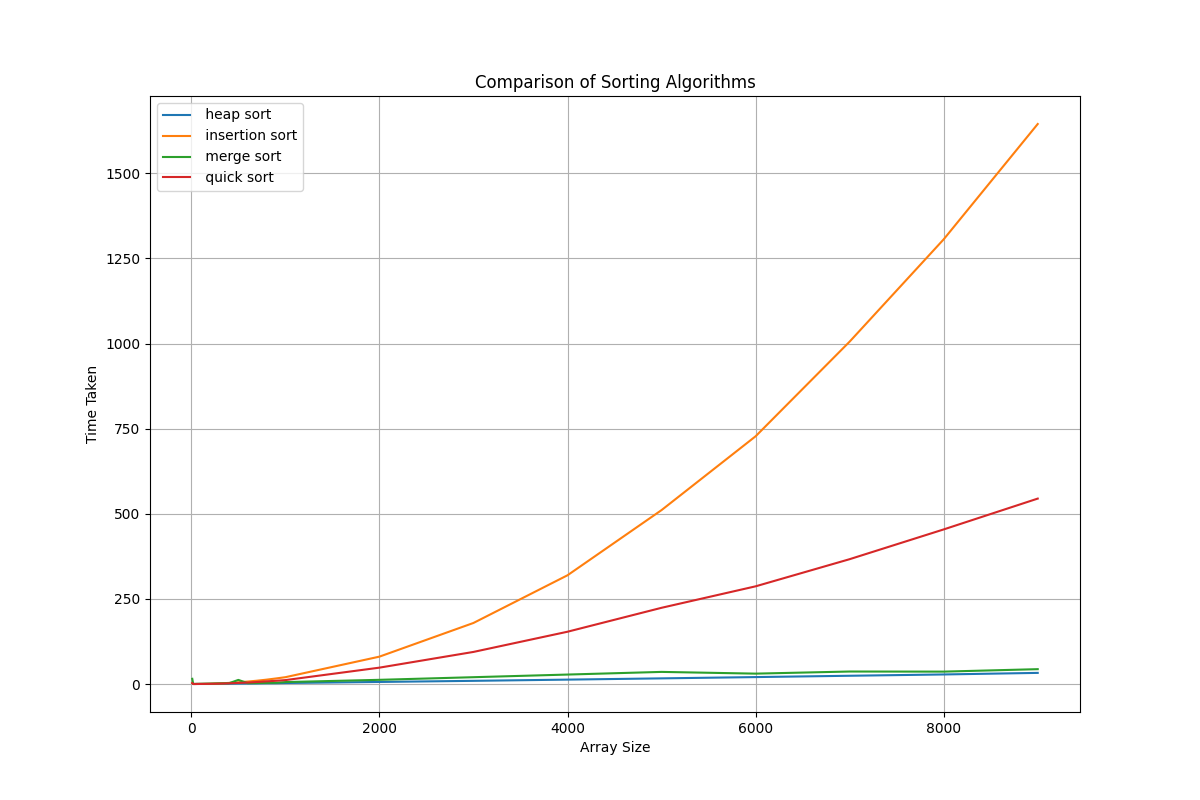
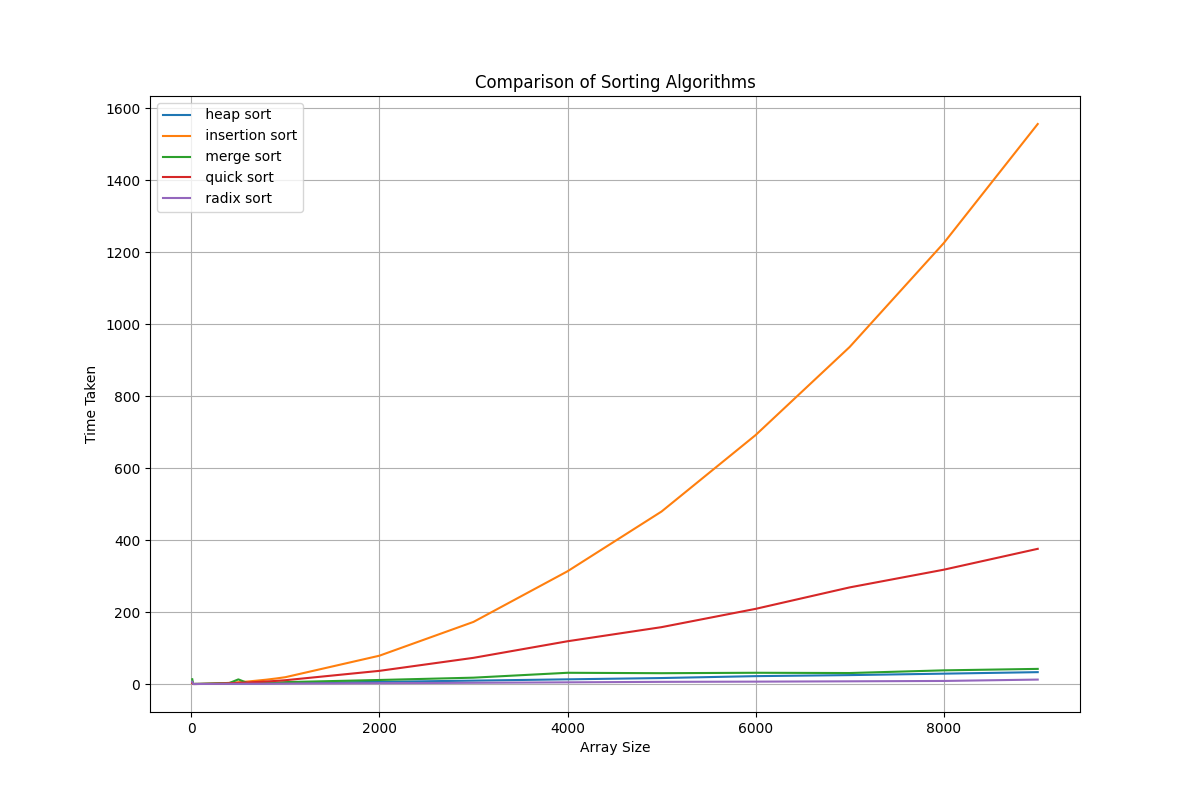
added radix sort and paper

diff --git a/SortingApp/Sorters/RadixSorter.cs b/SortingApp/Sorters/RadixSorter.cs
@@ -1,0 +1,71 @@
+namespace SortingApp.Sorters;
+
+public class RadixSorter : ISorter
+{
+    public List<int> Sort(List<int> list)
+    {
+        return RadixSort(list);
+    }
+
+    private static int GetMax(List<int> list)
+    {
+        int max = list[0];
+        foreach (int num in list)
+        {
+            if (num > max)
+                max = num;
+        }
+        return max;
+    }
+
+    // Using counting sort to sort the elements based on significant places
+    private static List<int> CountSort(List<int> list, int exp)
+    {
+        List<int> output = new List<int>(new int[list.Count]);
+        int[] count = new int[10];
+
+        // Initialize count array
+        for (int i = 0; i < 10; i++)
+            count[i] = 0;
+
+        // Store count of occurrences in count[]
+        foreach (int num in list)
+            count[(num / exp) % 10]++;
+
+        // Change count[i] so that count[i] contains the actual
+        // position of this digit in output[]
+        for (int i = 1; i < 10; i++)
+            count[i] += count[i - 1];
+
+        // Build the output list
+        for (int i = list.Count - 1; i >= 0; i--)
+        {
+            output[count[(list[i] / exp) % 10] - 1] = list[i];
+            count[(list[i] / exp) % 10]--;
+        }
+
+        return output;
+    }
+
+    // Radix Sort
+    public static List<int> RadixSort(List<int> inputList)
+    {
+        // Clone the input list to avoid modifying the original list
+        List<int> sortedList = new List<int>(inputList);
+
+        // Find the maximum number to know the number of digits
+        int max = GetMax(sortedList);
+
+        // Do counting sort for every digit
+        for (int exp = 1; max / exp > 0; exp *= 10)
+            sortedList = CountSort(sortedList, exp);
+
+        return sortedList;
+    }
+
+    
+    public string GetName()
+    {
+        return "radix sort";
+    }
+}

diff --git a/SortingApp/Helpers/Generator.cs b/SortingApp/Helpers/Generator.cs
@@ -4,7 +4,7 @@ public static class Generator
 {
     private static readonly Random Random = new();
     
-    private const int MinElementValue = -1000;
+    private const int MinElementValue = 1;
     private const int MaxElementValue = 1000;
 
     public static List<int> GenerateList(int size)
